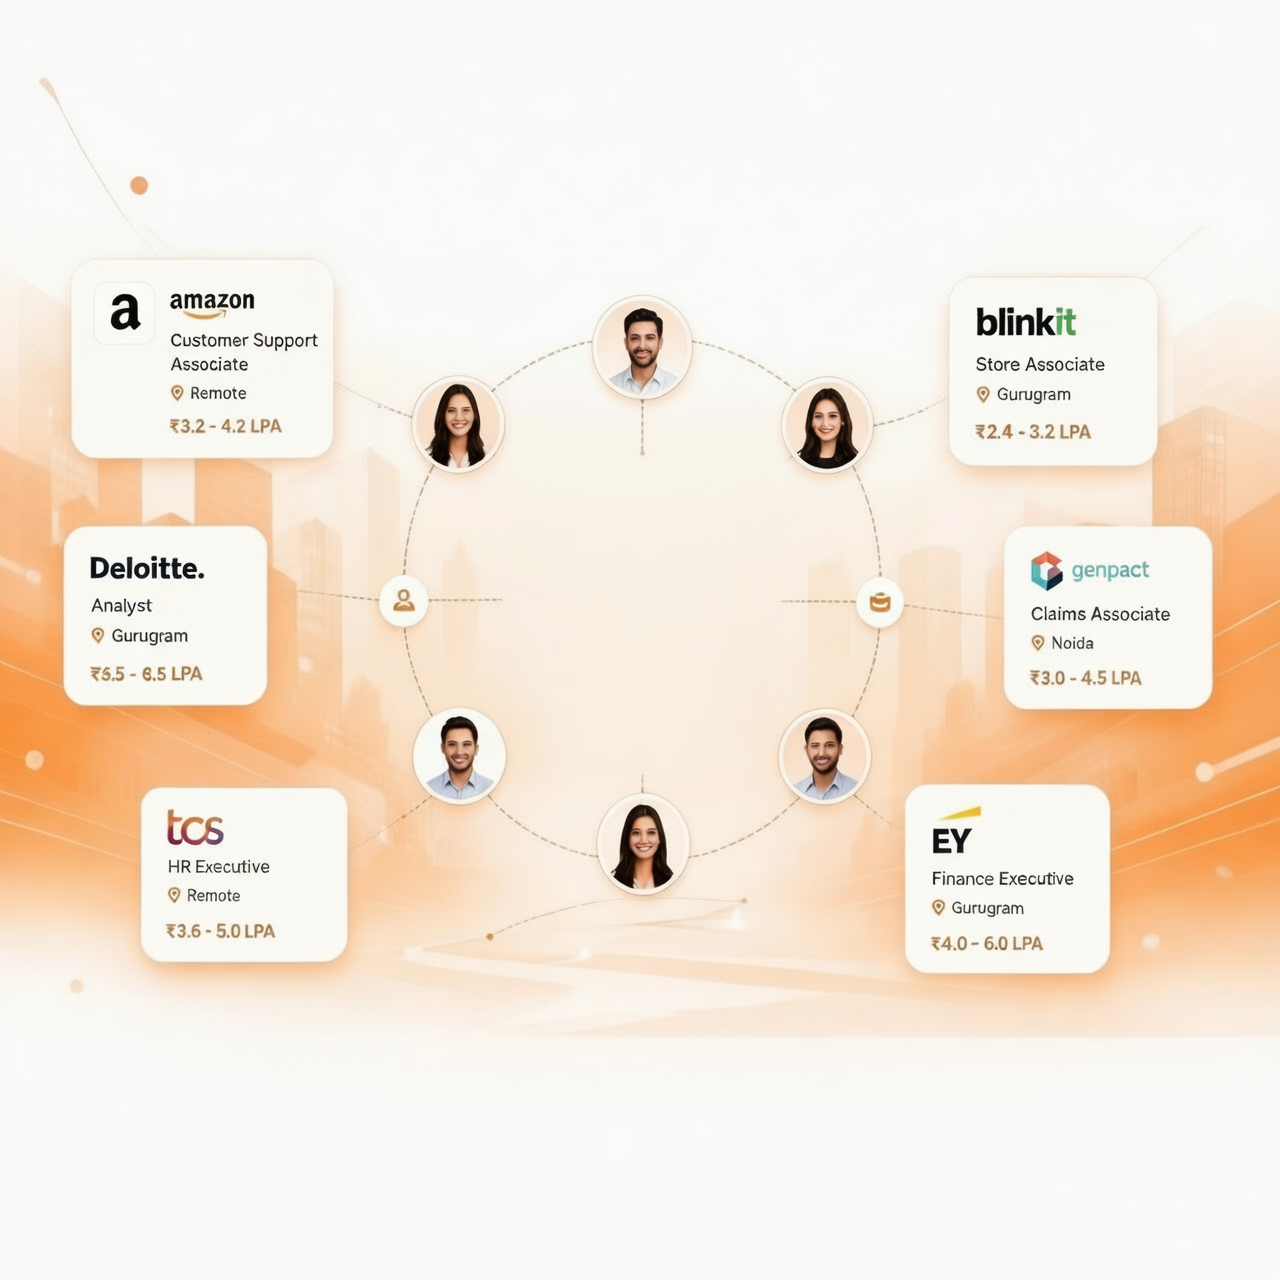
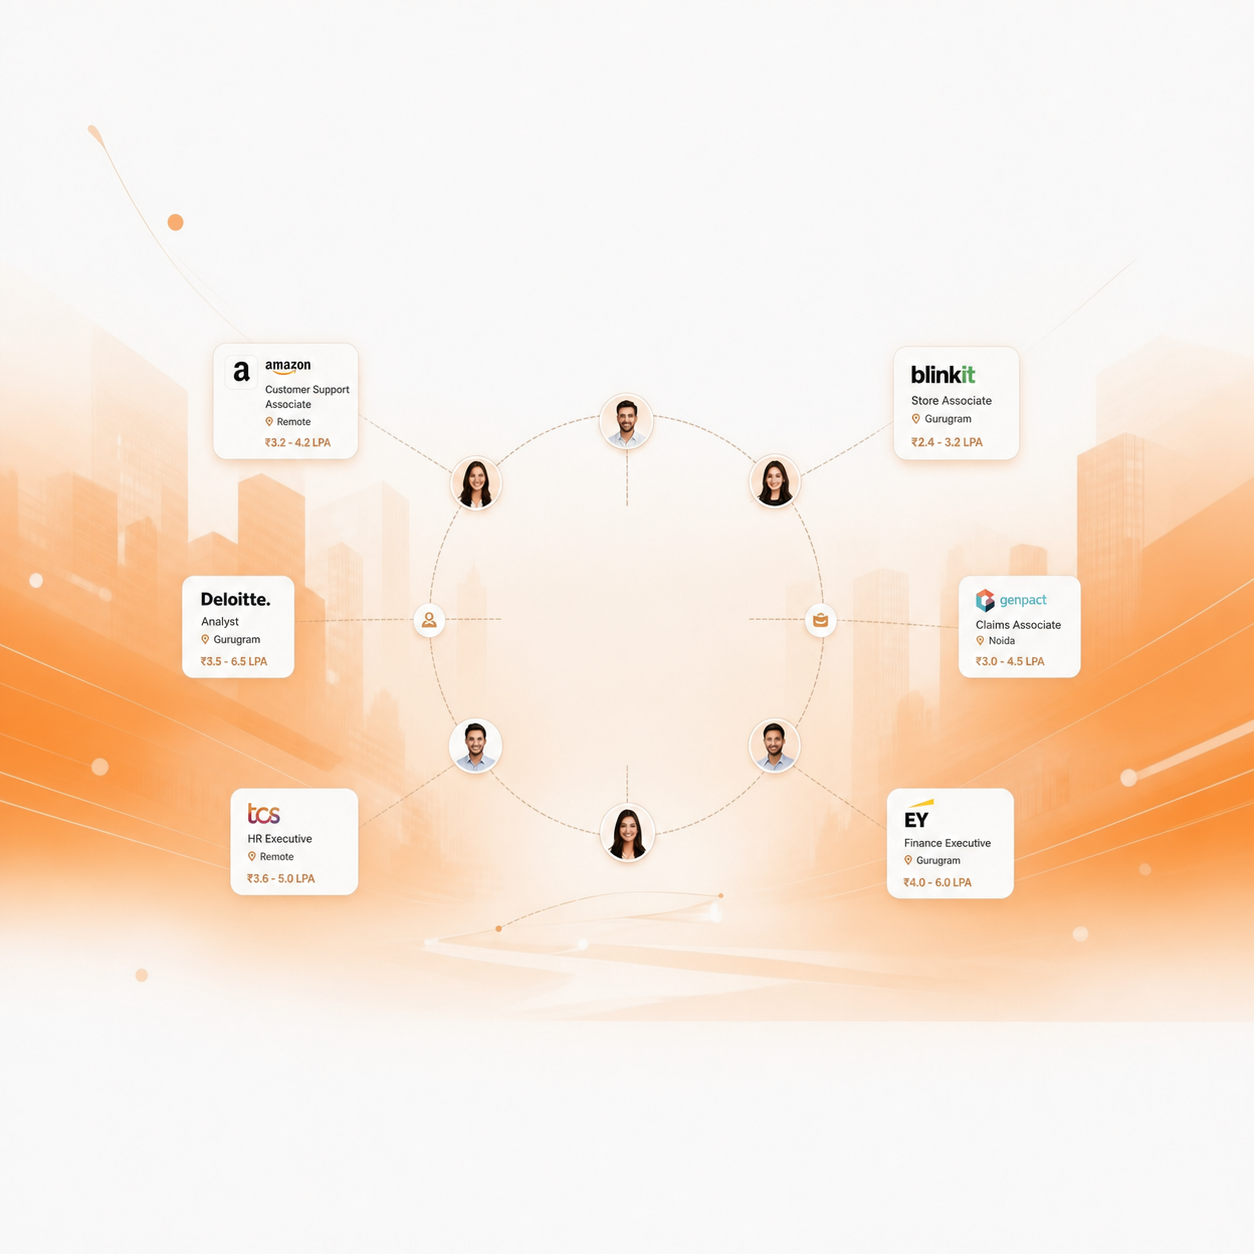
Hero: desktop liftoff bg zoomed in 14% (0.95x0.91)

diff --git a/app/globals.css b/app/globals.css
@@ -2735,7 +2735,7 @@ textarea.placedly-demo-input{resize:vertical;min-height:80px}
     min-width: 100vw;
     max-width: none;
     margin: 0;
-    transform: translate(-50%, -50%) scale(0.83, 0.8);
+    transform: translate(-50%, -50%) scale(0.95, 0.91);
     transform-origin: center center;
   }
   .placedly-hero-desktop-gradient .placedly-hero-bg-video-wrap{
